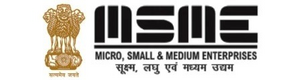
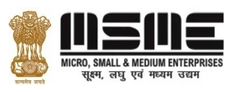
Add a credentials strip under the hero on the home page
A band of proof directly below the hero, where a buyer looks first: the label
on the left, the five marks beside it, rising in sequence on scroll through
the shared .rv reveal plus data-stagger. Light on mist against the navy hero
above, so it reads as a seal band rather than another full section.

The same five marks were already further down the page in the compliance
section, so they move up rather than being duplicated — showing an identical
row twice on one page is the kind of thing a client notices. That section
keeps its three standards cards and is retitled Standards & Compliance, since
membership and certification now live at the top.

The marks are the ones the company actually holds — IEC, FIEO, WTC Mumbai,
MSME Udyam and GST. The reference screenshot also showed GMP, HALAL and FDA;
there are no assets for those and no evidence the company is certified to
them, so they are deliberately absent.

Three things had to be fixed to make the row look right:

- Each PNG carried a different amount of baked-in white margin — IEC was 55%
  ink, WTC 48%, FIEO 100% — so no CSS could give them a consistent optical
  size. They are trimmed to their artwork plus a uniform 3%.
- FIEO sat on a flat #F0F0F0 panel that showed as a grey block against the
  white cards. Only that neutral grey is cleared, so the diamond and the type
  are untouched.
- The grid used repeat(N,1fr), which floors at min-content; with intrinsic
[…]

diff --git a/home.html b/home.html
@@ -142,6 +142,27 @@
   </div>
 </section>
 
+<!-- ═══ CREDENTIALS ═══ -->
+<section class="creds" id="credentials" aria-labelledby="creds-h">
+  <div class="wrap">
+    <div class="creds-in">
+      <div class="creds-head">
+        <p class="kicker rv">Accredited</p>
+        <h2 class="rv" id="creds-h">Membership &amp; <br>Certifications</h2>
+        <div class="rule"></div>
+        <p class="creds-note rv d1">Registered with, and a member of, the bodies an export buyer checks first.</p>
+      </div>
+      <div class="certs" data-stagger>
+        <div class="cert rv" role="button" tabindex="0" aria-label="Enlarge: Import Export Code registration"><img src="assets/img/cert-iec.png" alt="Import Export Code registration" width="248" height="114" loading="lazy" decoding="async"></div>
+        <div class="cert rv" role="button" tabindex="0" aria-label="Enlarge: Federation of Indian Export Organisations"><img src="assets/img/cert-fieo.png" alt="Federation of Indian Export Organisations" width="318" height="162" loading="lazy" decoding="async"></div>
+        <div class="cert rv" role="button" tabindex="0" aria-label="Enlarge: World Trade Centre Mumbai member"><img src="assets/img/cert-wtc-mumbai.png" alt="World Trade Centre Mumbai member" width="219" height="222" loading="lazy" decoding="async"></div>
+        <div class="cert rv" role="button" tabindex="0" aria-label="Enlarge: MSME Udyam registration"><img src="assets/img/cert-msme-udyam.png" alt="MSME Udyam registration" width="231" height="92" loading="lazy" decoding="async"></div>
+        <div class="cert rv" role="button" tabindex="0" aria-label="Enlarge: GST registration"><img src="assets/img/cert-gst.png" alt="GST registration" width="288" height="89" loading="lazy" decoding="async"></div>
+      </div>
+    </div>
+  </div>
+</section>
+
 <!-- ═══ ABOUT ═══ -->
 <section class="sec">
   <div class="wrap">
@@ -334,7 +355,7 @@
   <div class="wrap">
     <div class="sec-head">
       <p class="kicker rv">Compliance</p>
-      <h2 class="rv">Standards, Membership &amp; Certification</h2>
+      <h2 class="rv">Standards &amp; Compliance</h2>
       <div class="rule"></div>
       <p class="lead rv d1" style="margin-top:18px">Our fly ash complies with the stringent international codes for classified ash.</p>
     </div>
@@ -342,13 +363,6 @@
       <div class="std rv"><b>ASTM C618</b><span>Class F</span></div>
       <div class="std rv"><b>BS EN 450</b><span>Category S</span></div>
       <div class="std rv"><b>IS 3812</b><span>Grade</span></div>
-    </div>
-    <div class="certs" data-stagger>
-      <div class="cert rv" role="button" tabindex="0" aria-label="Enlarge: Import Export Code registration"><img src="assets/img/cert-iec.png" alt="Import Export Code registration" loading="lazy" decoding="async"></div>
-      <div class="cert rv" role="button" tabindex="0" aria-label="Enlarge: Federation of Indian Export Organisations"><img src="assets/img/cert-fieo.png" alt="Federation of Indian Export Organisations" loading="lazy" decoding="async"></div>
-      <div class="cert rv" role="button" tabindex="0" aria-label="Enlarge: World Trade Centre Mumbai member"><img src="assets/img/cert-wtc-mumbai.png" alt="World Trade Centre Mumbai member" loading="lazy" decoding="async"></div>
-      <div class="cert rv" role="button" tabindex="0" aria-label="Enlarge: MSME Udyam registration"><img src="assets/img/cert-msme-udyam.png" alt="MSME Udyam registration" loading="lazy" decoding="async"></div>
-      <div class="cert rv" role="button" tabindex="0" aria-label="Enlarge: GST registration"><img src="assets/img/cert-gst.png" alt="GST registration" loading="lazy" decoding="async"></div>
     </div>
   </div>
 </section>

diff --git a/assets/css/styles.css b/assets/css/styles.css
@@ -802,6 +802,54 @@ input[type=range]::-moz-range-thumb{width:22px;height:22px;border-radius:50%;bac
 .rv.in{opacity:1;transform:none}
 .d1{transition-delay:.1s}.d2{transition-delay:.2s}.d3{transition-delay:.3s}
 
+/* ═══ CREDENTIALS STRIP ═══ */
+/* Sits directly under the navy hero, so it is deliberately light and shallow —
+   a band of proof rather than a full section. The label anchors the left, the
+   marks run beside it, and on the way past they rise in sequence via the
+   shared .rv reveal plus data-stagger. */
+.creds{background:var(--mist);border-block:1px solid var(--line);padding-block:clamp(30px,4vw,46px)}
+.creds-in{display:grid;grid-template-columns:minmax(210px,250px) 1fr;gap:clamp(26px,4vw,56px);align-items:center}
+
+.creds-head h2{font-size:clamp(21px,1rem+1vw,27px);line-height:1.25;letter-spacing:.01em}
+.creds-head .kicker{margin-bottom:10px}
+/* The shared .rule is centred; here it belongs on the left with the text. */
+.creds-head .rule{margin:14px 0 0}
+.creds-note{margin:14px 0 0;font-size:13.5px;line-height:1.65;color:var(--charcoal-2);max-width:34ch}
+
+/* minmax(0,...) not 1fr: a plain 1fr floors at the track's min-content, and
+   these cards contain images with an intrinsic width, so the row blows past
+   the viewport and takes the heading's wrapping with it. */
+.creds .certs{grid-template-columns:repeat(5,minmax(0,1fr));gap:clamp(10px,1.2vw,16px)}
+.creds .cert{height:clamp(92px,8.6vw,116px);padding:clamp(10px,1.1vw,16px);border-radius:3px;background:var(--white)}
+/* Filling the box and letting object-fit letterbox is what actually makes the
+   marks large. Left to max-width/max-height the img keeps its intrinsic size
+   and floats small in the middle of the card. */
+.creds .cert img{width:100%;height:100%;object-fit:contain}
+/* Five marks with five unrelated palettes clash at full saturation, but at
+   this size heavy greying makes them unreadable. A light touch settles the row
+   without hiding anything; hover restores true colour. */
+.creds .cert img{filter:grayscale(.3);opacity:.92}
+.creds .cert:hover img,.creds .cert:focus-visible img{filter:none;opacity:1}
+
+@media(max-width:960px){
+  .creds-in{grid-template-columns:1fr;gap:24px}
+  .creds-head{text-align:center}
+  .creds-head .rule{margin-inline:auto}
+  .creds-note{margin-inline:auto}
+  /* The br only earns its keep in the two-column layout. Hidden here, the
+     space left before it in the markup keeps the two words apart. */
+  .creds-head h2 br{display:none}
+  .creds .certs{grid-template-columns:repeat(3,minmax(0,1fr))}
+  /* Wider cards make a square mark like WTC height-bound, so give height back. */
+  .creds .cert{height:124px}
+}
+@media(max-width:560px){
+  .creds .certs{grid-template-columns:repeat(2,minmax(0,1fr))}
+  /* Five into two leaves one on its own; let it take the full width rather
+     than sit orphaned in a half-empty row. */
+  .creds .cert:last-child{grid-column:1 / -1}
+}
+
 /* ═══ RESPONSIVE ═══ */
 /* The burger only takes over at 900px, so every width from there to full
    desktop has to hold the brand, the six-link nav and the CTA on one line —
